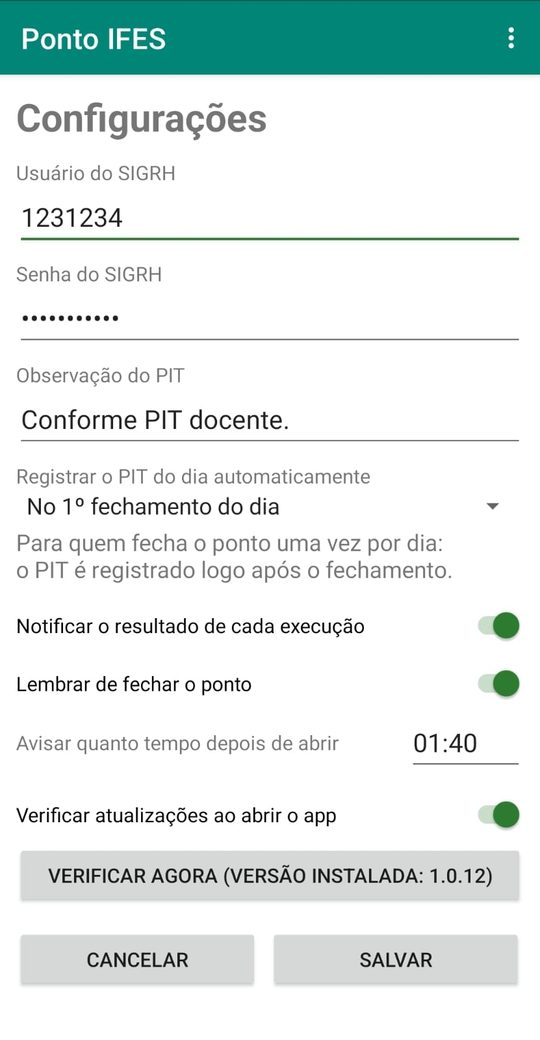
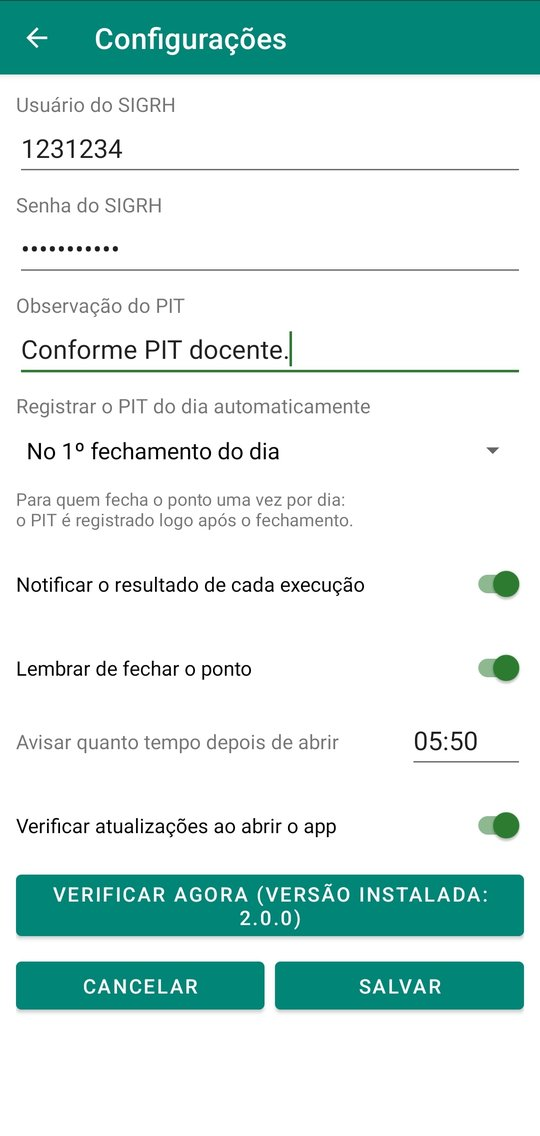
Site: capturas de tela do app em Kotlin e seção do Log
Claude-Session: https://claude.ai/code/session_01AEZiNish8eceW7o9E3cpGy

diff --git a/docs/index.html b/docs/index.html
@@ -132,13 +132,13 @@
 
   <section class="com-imagem">
     <h2>Tela principal</h2>
-    <figure><img src="img/tela-principal.jpg" alt="Tela principal do app, com os botões Abrir ponto, Fechar ponto e Registrar PIT" loading="lazy" width="540" height="1155"></figure>
+    <figure><img src="img/tela-principal.jpg" alt="Tela principal do app, com os botões Abrir ponto, Fechar ponto e Registrar PIT" loading="lazy" width="540" height="1136"></figure>
     <div>
       <ul>
         <li>Toque em <strong>Abrir ponto</strong>, <strong>Fechar ponto</strong> ou <strong>Registrar PIT</strong>. O andamento aparece na tela. Abrir e fechar o ponto só funcionam com o celular conectado à rede da escola.</li>
         <li>Para registrar o PIT de um dia que passou, preencha a data em <strong>Registrar o PIT de outro dia</strong> antes de tocar em Registrar PIT. Em branco, vale a data de hoje.</li>
         <li>O PIT só é registrado de segunda a sexta. Para o PIT de hoje, feche o ponto antes.</li>
-        <li><strong>Log</strong> mostra o histórico de execuções, com data e hora. Use <strong>Copiar</strong> para mandar o log para mim se algo der errado.</li>
+        <li><strong>Log</strong> mostra o histórico de execuções (veja abaixo).</li>
         <li>No menu de três pontos, <strong>Sobre o Ponto IFES</strong> mostra a versão instalada e o endereço deste site.</li>
       </ul>
     </div>
@@ -146,7 +146,7 @@
 
   <section class="com-imagem">
     <h2>Configurações</h2>
-    <figure><img src="img/configuracoes.jpg" alt="Tela de Configurações do app" loading="lazy" width="540" height="1040"></figure>
+    <figure><img src="img/configuracoes.jpg" alt="Tela de Configurações do app" loading="lazy" width="540" height="1136"></figure>
     <div>
       <ul>
         <li><strong>Usuário e senha do SIGRH</strong>: as credenciais usadas em todos os registros.</li>
@@ -155,6 +155,18 @@
         <li><strong>Notificar o resultado de cada execução</strong>: liga ou desliga as notificações com o resultado.</li>
         <li><strong>Lembrar de fechar o ponto</strong>: se o ponto foi aberto e não foi fechado no tempo escolhido (padrão 01:00), o app avisa com uma notificação, mesmo fechado. O tempo vai até 06:00. O aviso pode chegar alguns minutos depois com o celular em repouso. Se o celular for reiniciado, o lembrete continua valendo.</li>
         <li><strong>Verificar atualizações ao abrir o app</strong>: avisa quando há versão nova para baixar. <strong>Verificar agora</strong> consulta na hora.</li>
+      </ul>
+    </div>
+  </section>
+
+  <section class="com-imagem">
+    <h2>Log</h2>
+    <figure><img src="img/log.jpg" alt="Tela do Log, com o registro de um PIT e os botões Voltar, Copiar e Limpar" loading="lazy" width="540" height="1136"></figure>
+    <div>
+      <ul>
+        <li>Cada registro aparece com data e hora, o que o app fez e o resultado (<em>saída: 0</em> quando deu certo).</li>
+        <li>Use <strong>Copiar</strong> para mandar o log para mim se algo der errado.</li>
+        <li><strong>Limpar</strong> apaga o histórico, depois de confirmar.</li>
       </ul>
     </div>
   </section>
@@ -172,7 +184,7 @@
   <section>
     <h2>Atalhos na tela inicial</h2>
     <p>Segure o ícone do Ponto IFES para ver os atalhos <strong>Abrir ponto</strong>, <strong>Fechar ponto</strong> e <strong>Registrar PIT</strong>. Tocar num deles já executa a ação. Para deixar um atalho fixo na tela inicial, arraste-o para lá.</p>
-    <figure class="larga"><img src="img/atalhos.jpg" alt="Ícone do app e os atalhos Abrir ponto, Fechar ponto e Registrar PIT na tela inicial" loading="lazy" width="800" height="257"></figure>
+    <figure class="larga"><img src="img/atalhos.jpg" alt="Ícone do app e os atalhos Abrir ponto, Fechar ponto e Registrar PIT na tela inicial" loading="lazy" width="800" height="295"></figure>
     <p>Cada atalho tem o próprio símbolo: play para abrir, stop para fechar e relógio para o PIT.</p>
   </section>
 
